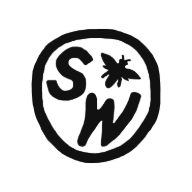
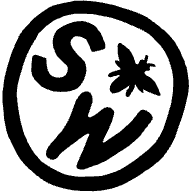
Develop (#2)
* updated carousel to no have helper arrows for touch devices, svh converted to vh

* favicons updated to slight rotation

diff --git a/app/components/ui/CarouselFade.vue b/app/components/ui/CarouselFade.vue
@@ -241,7 +241,7 @@ onUnmounted(() => {
       <!-- Navigation Buttons -->
       <div
         v-if="options.navigation"
-        class="absolute inset-0 flex"
+        class="absolute inset-0 flex only-touch:hidden"
       >
         <button
           class="w-1/2 flex items-center justify-start p-[var(--app-outer-gutter)] cursor-none"
@@ -253,10 +253,6 @@ onUnmounted(() => {
           @mouseup="handleMouseUp"
         >
           <span class="sr-only">Previous</span>
-
-          <IconArrowLarge
-            class="only-hover:hidden w-[16px] h-[18px] rotate-90 filter-shadow-light"
-          />
         </button>
 
         <button
@@ -269,10 +265,6 @@ onUnmounted(() => {
           @mouseup="handleMouseUp"
         >
           <span class="sr-only">Next</span>
-
-          <IconArrowLarge
-            class="only-hover:hidden w-[16px] h-[18px] -rotate-90 filter-shadow-light"
-          />
         </button>
       </div>
 
@@ -280,6 +272,7 @@ onUnmounted(() => {
       <div
         v-if="isHovering"
         class="
+          only-touch:hidden
           absolute
           pointer-events-none
           z-1

diff --git a/app/components/hero/Carousel.vue b/app/components/hero/Carousel.vue
@@ -22,7 +22,7 @@ const ratios = {
 <template>
   <div
     v-editable="block"
-    class="bg-offblack text-white h-svh"
+    class="bg-offblack text-white h-screen"
   >
     <HeroScrollDown>
       <UiParallax>
@@ -32,7 +32,7 @@ const ratios = {
             autoplayDuration: Number(block.autoplay_duration),
             navigation: true,
             pagination: false,
-            slideClasses: 'h-svh',
+            slideClasses: 'h-screen',
           }"
           :slides="block.slides || []"
           :ratio-x="ratios.mobile.x"

diff --git a/app/components/hero/Image.vue b/app/components/hero/Image.vue
@@ -13,7 +13,7 @@ const assetType = computed(() => storyblokAssetType(block.media?.filename || '')
   <div
     v-editable="block"
     data-component="hero-image"
-    class="relative h-svh bg-offblack text-white"
+    class="relative h-screen bg-offblack text-white"
   >
     <HeroScrollDown>
       <UiParallax>

diff --git a/app/components/ui/StickyWrapper.vue b/app/components/ui/StickyWrapper.vue
@@ -66,7 +66,6 @@ onUnmounted(() => {
 .ui-sticky-wrapper {
   position: sticky;
   bottom: calc((-1 * (var(--_block-height) + var(--app-header-height))) + 100vh);
-  bottom: calc((-1 * (var(--_block-height) + var(--app-header-height))) + 100svh);
 
   &.is-shorter {
     bottom: 0;
